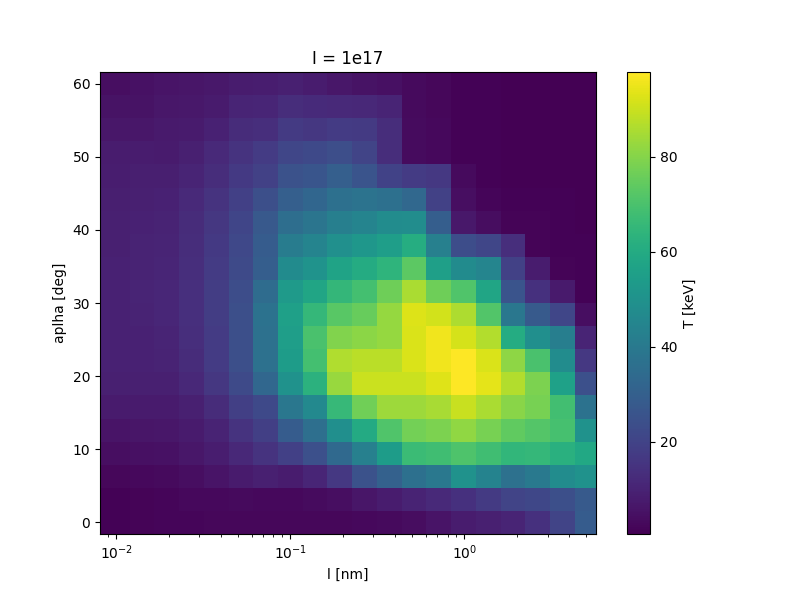
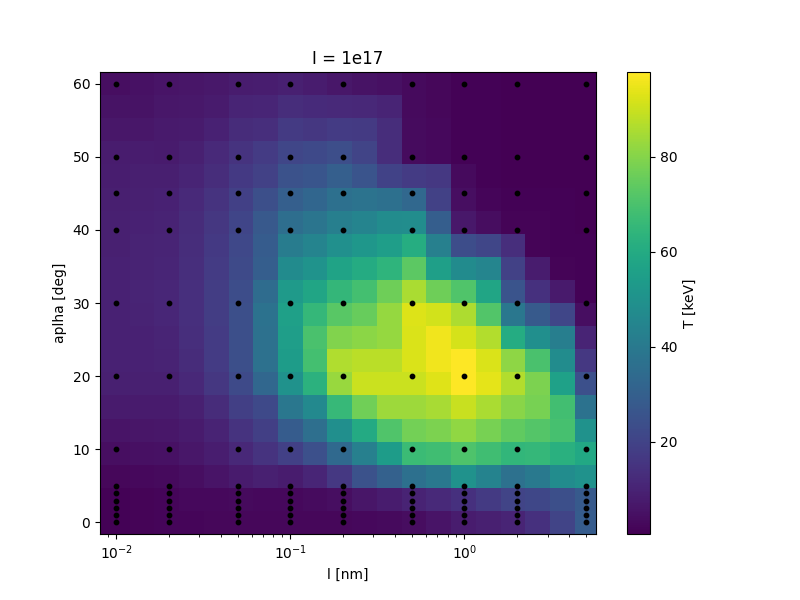
plot dots to dataset

diff --git a/programs/fit_tool/MplCanvas.py b/programs/fit_tool/MplCanvas.py
@@ -128,6 +128,7 @@ class MplCanvas(FigureCanvas):
                                                  float(self.autofit_result.c),
                                                  float(self.autofit_result.d),
                                                  float(self.autofit_result.e))
+
         self.axes.plot(x, y, label='Custom fit', color='orange')
         
     def plot_original_fit(self):
@@ -138,4 +139,5 @@ class MplCanvas(FigureCanvas):
                                                  float(self.autofit_result.c),
                                                  float(self.autofit_result.d),
                                                  float(self.autofit_result.e))
+
         self.axes.plot(x, y, label='Original (auto-) fit', color='red')

diff --git a/programs/draw_dataset.py b/programs/draw_dataset.py
@@ -40,6 +40,6 @@ for current in ["1e17", "1e18", "1e19"]:
     plt.title("I = " + current)
     # plt.show()
     
-    plt.scatter(x,y,c='r',s=10,marker='o')
+    plt.scatter(x,y,c='black',s=10,marker='o')
     plt.savefig("dataset/I_" + current + ".png")
     
